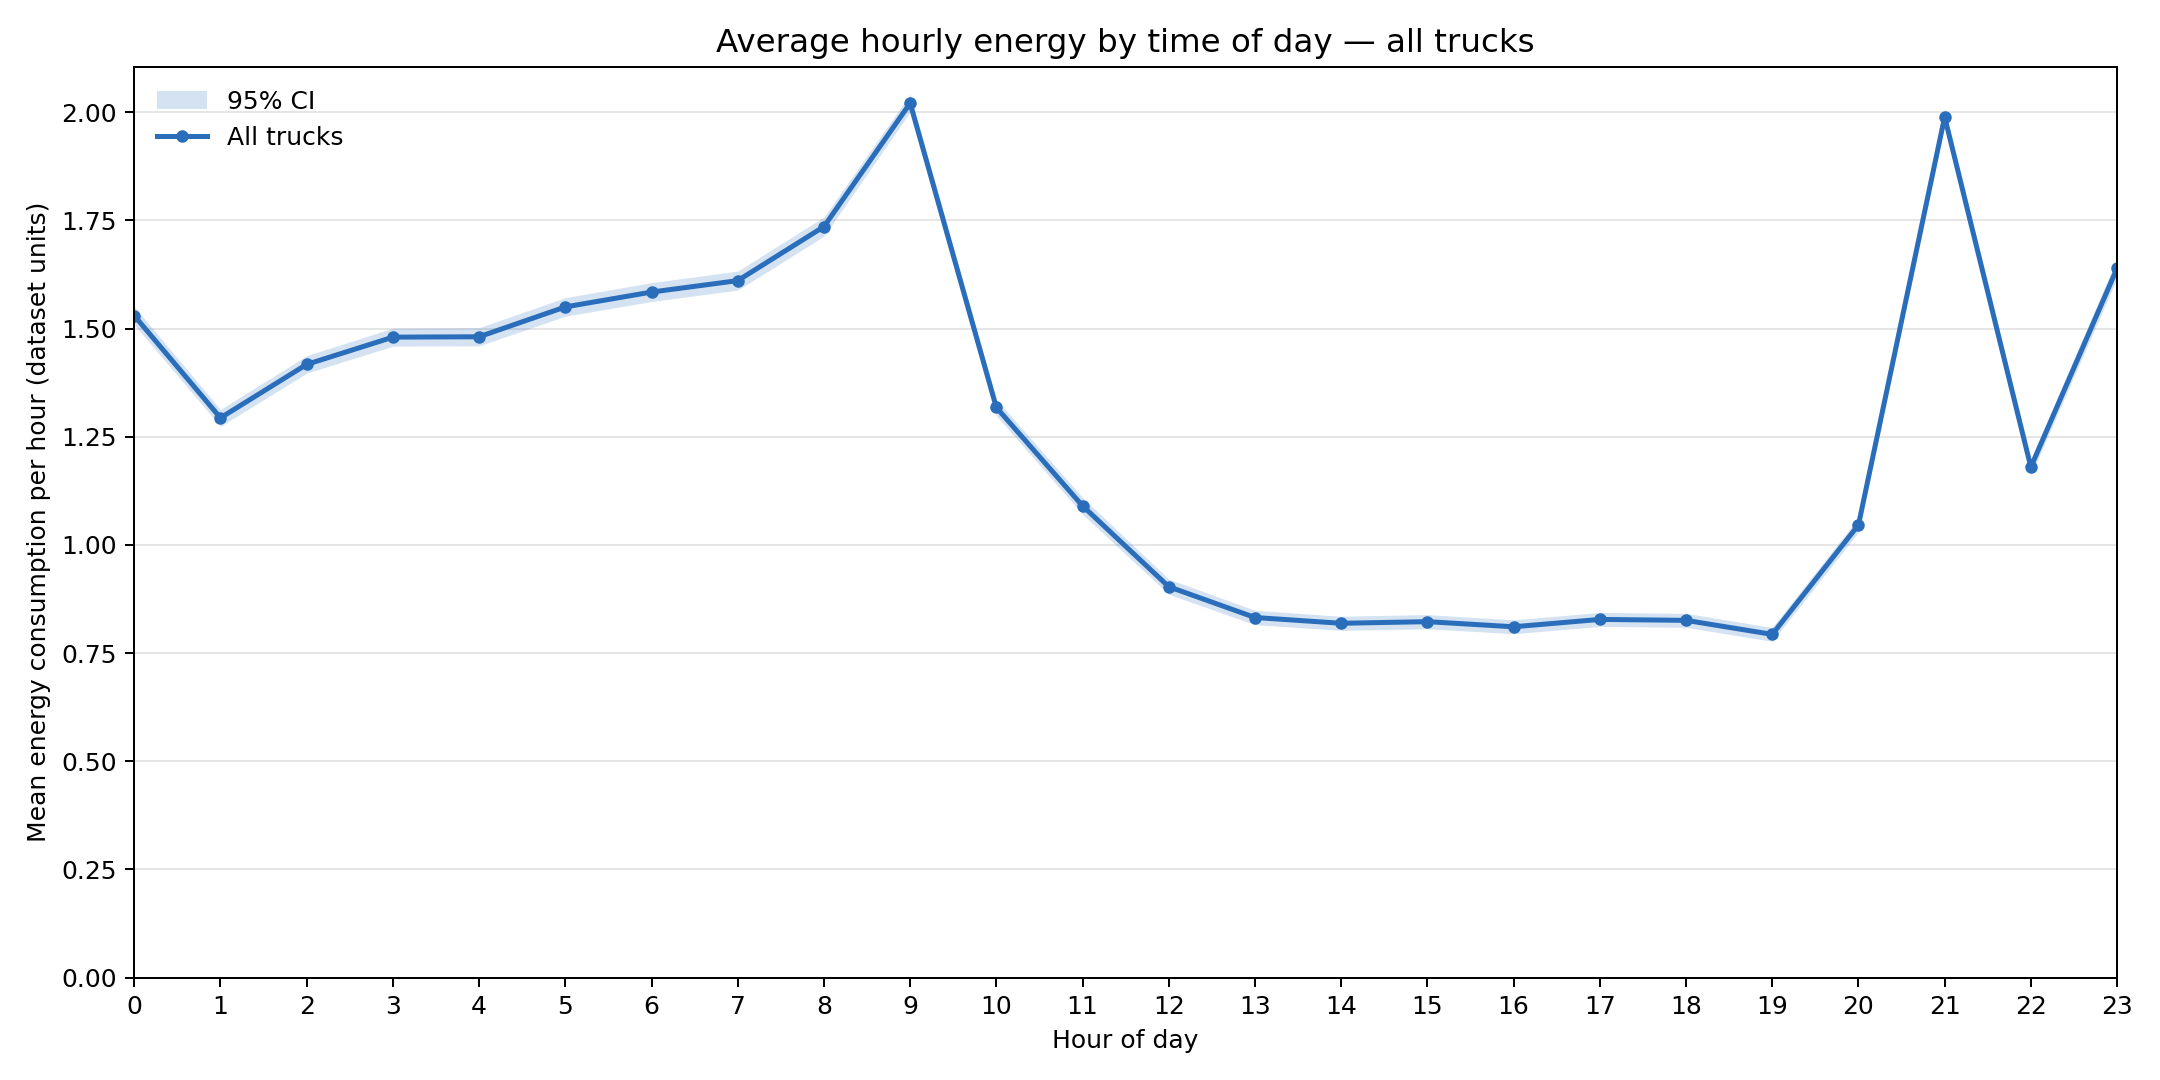
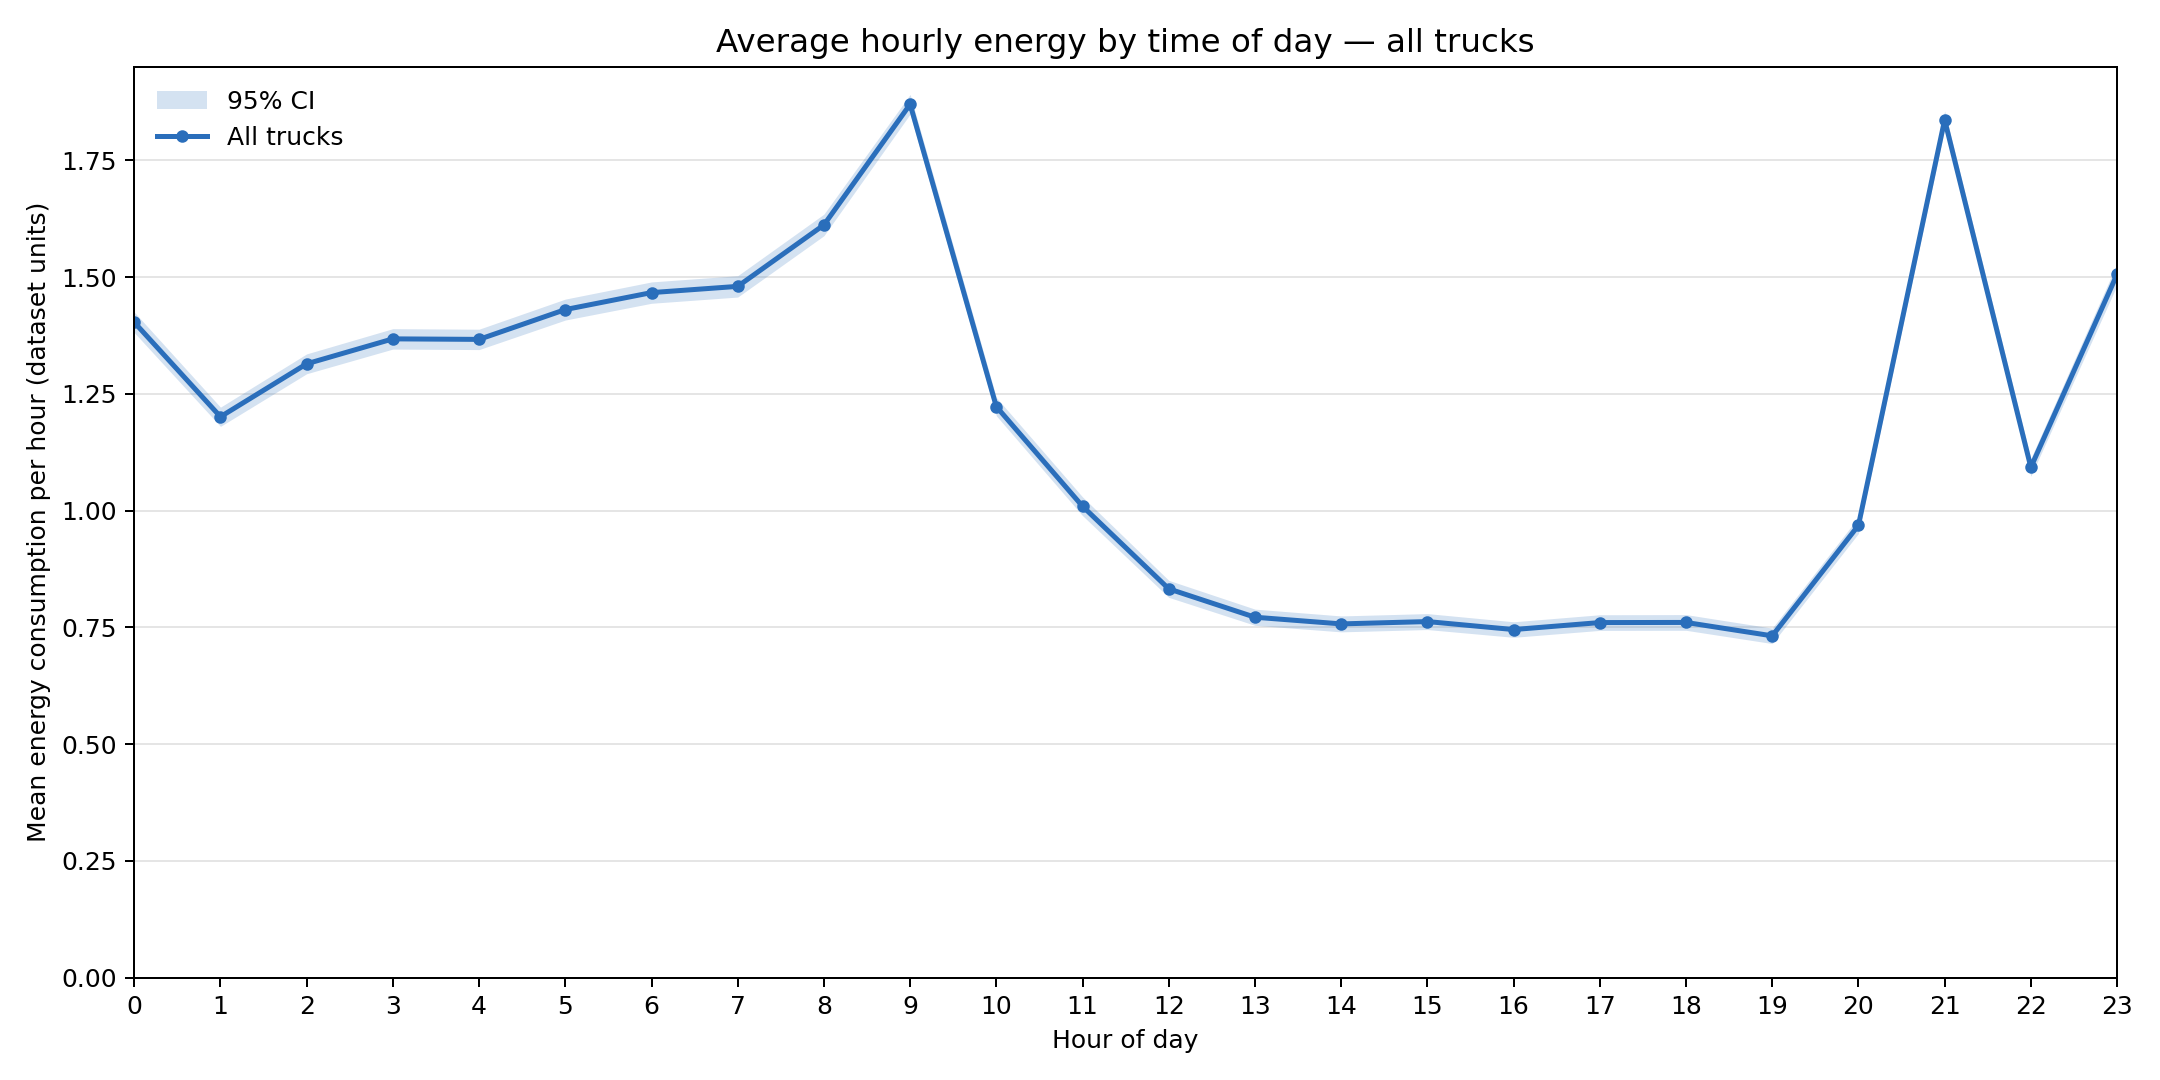
Use calendar dates for time-of-day and group energy plots
Add a shared energy_data.load_energy that maps month/day to calendar
dates, drops identical rows where month blocks overlap, and excludes
November (two conflicting copies). The hourly and grouped plots now
aggregate per truck and calendar date; daily means drop ~5-10% as
November was previously double-counted.

diff --git a/energy_uncertainty/plot_hourly_energy_by_time_of_day.py b/energy_uncertainty/plot_hourly_energy_by_time_of_day.py
@@ -1,9 +1,10 @@
 """Hourly average energy by time of day (all trucks, and per truck category).
 
 The raw data has 48 half-hour slots per day (column ``hour`` = 0..47).
-Two consecutive slots are summed per truck/month/day to get hourly energy,
-then averaged across all truck-hours, with a 95% confidence interval
-(mean +/- 1.96 * standard error).
+Two consecutive slots are summed per truck and calendar date to get hourly
+energy, then averaged across all truck-hours, with a 95% confidence interval
+(mean +/- 1.96 * standard error). Rows are cleaned by energy_data.load_energy
+(calendar dates, overlap de-duplicated, November dropped).
 """
 from pathlib import Path
 
@@ -11,8 +12,9 @@ import matplotlib.pyplot as plt
 import numpy as np
 import pandas as pd
 
+from energy_data import load_energy
+
 HERE = Path(__file__).resolve().parent
-DATA = HERE / "all_trucks_energy_consumption_data_with_category.csv"
 DUTY_CYCLE = HERE.parent / "Other_data" / "West_Ang_Fleet_duty_cycle.csv"
 DUTY_COLORS = {"LIGHT": "#3a9a6a", "MEDIUM": "#2a6ebb", "HEAVY": "#b8434f"}
 FLEET = HERE.parent / "Other_data" / "West_Ang_Fleet.csv"
@@ -33,9 +35,9 @@ def load_hourly() -> pd.DataFrame:
     24 hours, with absent hours filled with 0, so the average is not biased
     by how many slots happen to be present at each time of day.
     """
-    df = pd.read_csv(DATA, dtype={"month": str})
+    df = load_energy()
     df["hour_of_day"] = df["hour"] // 2
-    day_keys = ["TruckId", "truck_category", "month", "day"]
+    day_keys = ["TruckId", "truck_category", "date"]
     wide = (
         df.groupby(day_keys + ["hour_of_day"])["energy_consumption"].sum()
         .unstack("hour_of_day")
@@ -152,7 +154,7 @@ def draw_groups(ax, bx, h: pd.DataFrame, order: list[str], colors: list[str], wh
     ax.set_ylim(0, s["hi"].max() * (1.35 if many else 1.2))
     ax.legend(frameon=False, loc="upper left", ncol=2 if many else 1, fontsize=9 if many else 10)
 
-    daily = h.groupby(["TruckId", "group", "month", "day"], as_index=False)["energy_consumption"].sum()
+    daily = h.groupby(["TruckId", "group", "date"], as_index=False)["energy_consumption"].sum()
     ds = summarize(daily, ["group"]).set_index("group").loc[order]
     x = np.arange(len(order))
     bx.bar(x, ds["mean"], color=colors, width=0.6)

diff --git a/energy_uncertainty/plot_energy_vs_temperature.py b/energy_uncertainty/plot_energy_vs_temperature.py
@@ -1,13 +1,11 @@
 """Correlation between daily average temperature and daily energy consumption.
 
-Energy data: ``day`` is days since the 1st of ``month`` (each month block runs
-34 days and overlaps the next month by a few days with identical rows), so the
-calendar date is ``2019-<month>-01 + day``. Overlapping copies are dropped.
-November holds two conflicting copies of every slot, so dates from
-2019-11-01 onwards are excluded.
+Energy data is cleaned by energy_data.load_energy (calendar dates, overlap
+de-duplicated, November dropped).
 
 Temperature: hourly MERRA-2 2 m temperature (Renewables.ninja), averaged per
-local (Australia/Perth) calendar day.
+local (Australia/Perth) calendar day. The weather file is for 2019, while the
+energy data appears to be 2023, so the two are aligned on month and day only.
 """
 from pathlib import Path
 
@@ -16,10 +14,11 @@ import numpy as np
 import pandas as pd
 from scipy import stats
 
+from energy_data import load_energy
+
 HERE = Path(__file__).resolve().parent
-ENERGY = HERE / "all_trucks_energy_consumption_data_with_category.csv"
 TEMPERATURE = HERE.parent / "Other_data" / "temperature.csv"
-CUTOFF = pd.Timestamp("2019-11-01")  # November data is internally inconsistent
+WEATHER_YEAR = 2019  # year of temperature.csv; energy is placed on the same year to join
 
 COLORS = {
     "Dril_Blast": "#2a6ebb", "Fixed_plant": "#e08a1e", "Ghosts": "#3a9a6a",
@@ -30,10 +29,7 @@ COLORS = {
 
 def load_truck_days() -> pd.DataFrame:
     """Daily energy per truck per calendar date."""
-    df = pd.read_csv(ENERGY, dtype={"month": str})
-    df["date"] = pd.to_datetime("2019-" + df["month"] + "-01") + pd.to_timedelta(df["day"], unit="D")
-    df = df[df["date"] < CUTOFF]
-    df = df.drop_duplicates(["TruckId", "date", "hour", "energy_consumption"])
+    df = load_energy(WEATHER_YEAR)
     return df.groupby(["TruckId", "truck_category", "date"], as_index=False)["energy_consumption"].sum()
 
 

diff --git a/energy_uncertainty/energy_data.py b/energy_uncertainty/energy_data.py
@@ -1,0 +1,25 @@
+"""Shared loader for all_trucks_energy_consumption_data_with_category.csv.
+
+The raw file has no calendar date. ``day`` is days since the 1st of ``month``
+and each month block runs 34 days, so it overlaps the next month by 3-4 days
+with identical rows. November holds two conflicting copies of every slot and
+cannot be reconciled, so dates from 1 November onwards are dropped.
+
+The file has no year either. Its weekly pattern matches 2023 weekdays (and the
+2023 fleet distance file), so 2023 is the default. Pass another non-leap year
+only to align with an external dataset on month and day.
+"""
+from pathlib import Path
+
+import pandas as pd
+
+HERE = Path(__file__).resolve().parent
+ENERGY = HERE / "all_trucks_energy_consumption_data_with_category.csv"
+
+
+def load_energy(year: int = 2023) -> pd.DataFrame:
+    """Half-hourly rows with a calendar ``date`` column, de-duplicated, Jan-Oct only."""
+    df = pd.read_csv(ENERGY, dtype={"month": str})
+    df["date"] = pd.to_datetime(f"{year}-" + df["month"] + "-01") + pd.to_timedelta(df["day"], unit="D")
+    df = df[df["date"] < pd.Timestamp(f"{year}-11-01")]
+    return df.drop_duplicates(["TruckId", "date", "hour", "energy_consumption"]).drop(columns=["month", "day"])
